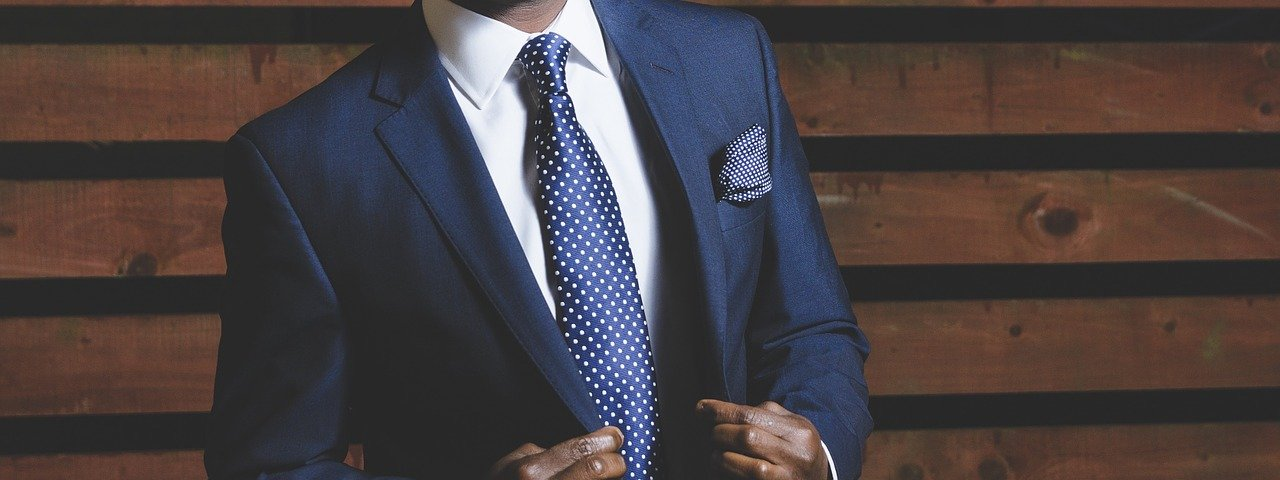
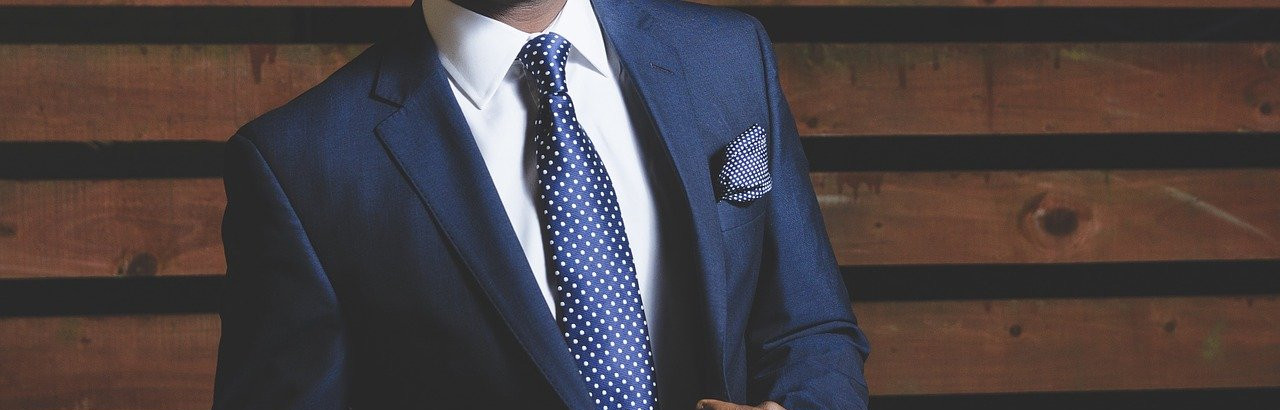
improved display and responsiveness for landing carousel slides.

diff --git a/src/components/LandingPage/Carousel.vue b/src/components/LandingPage/Carousel.vue
@@ -6,7 +6,7 @@
         controls
         indicators
         background="#ababab"
-        img-height="400"
+        img-height="100"
         style="text-shadow: 1px 1px 2px #333;"
     >
 
@@ -15,6 +15,7 @@
                       :title="slide.title"
                       :photo="slide.photo"
                       :slidetext="slide.slidetext"
+                      :shorttext="slide.shorttext"
                       :bigtitle="slide.bigtitle"
       />
 
@@ -39,6 +40,8 @@ export default {
           slidetext: this.$appname + " is a toolkit for independent " +
               "financial advisers. Spend less time wrestling with back " +
               "office functions, and more time taking care of clients.",
+          shorttext: this.$appname + " is a toolkit for independent " +
+              "financial advisers.",
           bigtitle: true
         },
         bigbroker: {
@@ -48,6 +51,8 @@ export default {
           slidetext: this.$appname + ' is designed to help financial advisers' +
               'break away from large financial institutions without ' +
               'sacrificing modern analytics and client management tools.',
+          shorttext: this.$appname + ' is designed to help financial advisers' +
+              'break away from large financial institutions.',
           bigtitle: false
         },
         custodian: {
@@ -58,6 +63,8 @@ export default {
               'for advisers using Interactive Brokers as their custodian ' +
               'bank / brokerage firm, but we will be adding other brokerage ' +
               'backends soon.',
+          shorttext: 'Currently we can link directly to client account info ' +
+              'for advisers using Interactive Brokers.',
           bigtitle: false
         },
         mpt: {
@@ -70,6 +77,8 @@ export default {
               'well-known pitfalls of traditional optimization. Give your ' +
               'clients the reassurance that your decisions have a solid ' +
               'basis in cutting-edge investment theory.',
+          shorttext: 'Our portfolio optimization algorithm solves many ' +
+              'classic problems in portfolio theory.',
           bigtitle: false
         }
       }
@@ -79,12 +88,6 @@ export default {
 </script>
 
 <style scoped>
-body {
-  padding-top: 3rem;
-  padding-bottom: 3rem;
-  color: #5a5a5a;
-}
-
 b-carousel {
   margin-bottom: 4rem;
   height: auto;

diff --git a/src/components/LandingPage/CarouselSlide.vue b/src/components/LandingPage/CarouselSlide.vue
@@ -13,10 +13,12 @@
           <h1 class="display-1" v-if="bigtitle">{{ title }}</h1>
           <h1 class="display-4" v-else>{{ title }}</h1>
 
-          <p>{{ slidetext }}</p>
+          <p class="d-none d-md-block">{{ slidetext }}</p>
+          <p class="d-md-none">{{ shorttext }}</p>
           <b-button v-b-modal="title" variant="primary"
                     class="font-weight-bold">
-            Show me the demo video >>
+            <span class="d-none d-md-block">Show me the demo video >></span>
+            <span class="d-md-none">Demo video >></span>
           </b-button>
           <b-modal :id="title" centered title="Indie Adviser Demo" size="xl"
                    header-bg-variant="dark"
@@ -46,6 +48,7 @@ export default {
   props: {
     photo: String,
     slidetext: String,
+    shorttext: String,
     title: String,
     bigtitle: Boolean
   }
@@ -63,13 +66,6 @@ img {
 .carousel-item {
   height: 32rem;
   background-color: #777;
-}
-
-
-.carousel-caption {
-  position: relative;
-  bottom: 3rem;
-  z-index: 10;
 }
 
 .carousel-item > img {
